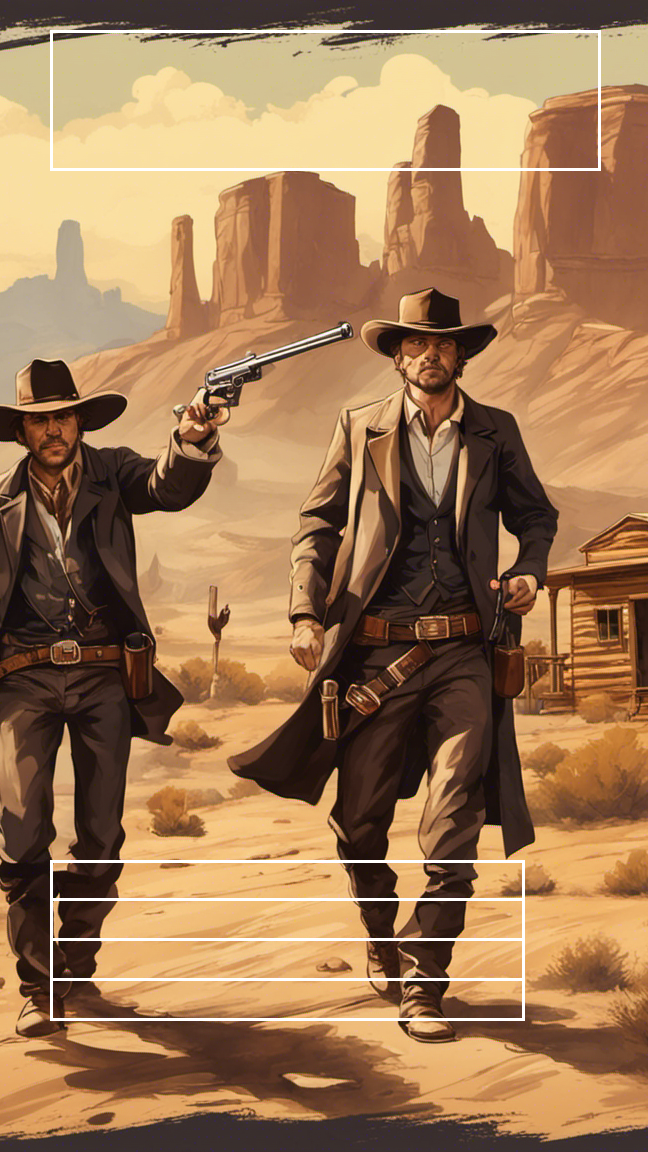
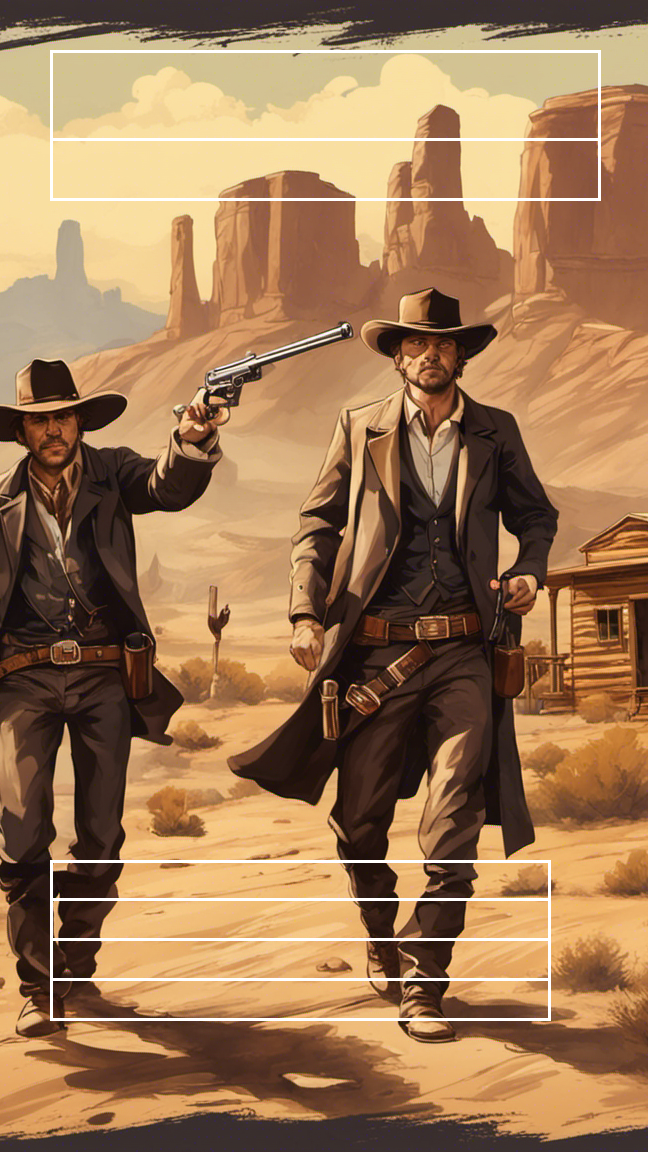
AGGIUNTA POSIZIONE PARAMETRICA

diff --git a/lambda_functions/create_ig_stories/image_editing.py b/lambda_functions/create_ig_stories/image_editing.py
@@ -2,11 +2,15 @@ from PIL import Image, ImageFont, ImageDraw
 import requests
 import io
 
-LOWER_BOXEX_X0 = 50
-LOWER_BOXEX_Y0 = 860
-LOWER_BOXEX_X1 = 524
+UPPER_BOXES_START_POINT = (50, 50)
+UPPER_BOXES_WIDTH = 550
+UPPER_SECTIONS = ["title", "body"]
 
+LOWER_BOXES_START_POINT = (50, 860)
+LOWER_BOXES_WIDTH = 500
+LOWER_SECTIONS = ["date", "time", "location", "cost"]
 
+BOX_MARGIN = 5
 
 def draw_textboxes(my_image, edit_dict):
     """
@@ -21,22 +25,23 @@ def draw_textboxes(my_image, edit_dict):
     # x_1 = 524
     # y_1 = 524
     # lower_textbox = ((50, 860), (524,))
-    y_0 = LOWER_BOXEX_Y0
+    upper_y_0 = UPPER_BOXES_START_POINT[1]
+    lower_y_0 = LOWER_BOXES_START_POINT[1]
+
     for scope in edit_dict.keys():
         if edit_dict[scope]["text"] != "":
             if scope in ["title", "body"]:
-                image_editable.rectangle(edit_dict[scope]["textbox"], width=3)
+                upper_textbox = ((UPPER_BOXES_START_POINT[0], UPPER_BOXES_START_POINT[1]), 
+                                 (UPPER_BOXES_START_POINT[0]+UPPER_BOXES_WIDTH, upper_y_0+edit_dict[scope]["size"]))
+                image_editable.rectangle(upper_textbox, width=3)
+                upper_y_0 = upper_y_0+edit_dict[scope]["size"]
             else: 
 
-                lower_textbox = ((LOWER_BOXEX_X0, LOWER_BOXEX_Y0), 
-                                 (LOWER_BOXEX_X1, y_0+edit_dict[scope]["size"]))
+                lower_textbox = ((LOWER_BOXES_START_POINT[0], LOWER_BOXES_START_POINT[1]), 
+                                 (LOWER_BOXES_START_POINT[0]+LOWER_BOXES_WIDTH, lower_y_0+edit_dict[scope]["size"]))
                 image_editable.rectangle(lower_textbox, width=3)
-                y_0 = y_0+edit_dict[scope]["size"]
+                lower_y_0 = lower_y_0+edit_dict[scope]["size"]
     return my_image
-
-
-
-
 
 def get_google_font(font: str, size=24):
     """
@@ -45,7 +50,6 @@ def get_google_font(font: str, size=24):
     size: dimensione del font
     """
     url = f"https://github.com/google/fonts/blob/main/ofl/{font}?raw=true"
-    print(url)
     r = requests.get(url, allow_redirects=True)
     font = ImageFont.truetype(io.BytesIO(r.content), size=size)
 
@@ -78,6 +82,43 @@ def crop_image(my_image, aspect_ratio: tuple):
     # thumb.save(img_path_cropped)
     return image
 
+def get_text_size(max_width, text, font, max_size):
+    # Get appropriate font size to make the text fit the box in a single line
+    max_size = max_size # Start from default font size
+    text_length = get_google_font(font, max_size).getlength(text) # Get text length given font and size
+    # Finché il testo non ci sta nel box predefinito, riduco la size di 2 punti e riprovo
+    while text_length > max_width:
+        max_size -= 2
+        text_length = get_google_font(font, max_size).getlength(text)
+    actual_size = max_size
+    
+    return actual_size
+
+def get_text_position(textbox, anchor):
+    # Get textbox dimensions from coordinates
+    box_h = textbox[1][1] - textbox[0][1]
+
+    # Determinare la posizione del testo
+    # - se testo centrato ("anchor" == "mm"): posizione = centro del box
+    # - se testo allineato a dx ("anchor" == "lb"): posizione = angolo lower left del box
+    # - se testo allineato a dx ("anchor" == "lm"): posizione = middle left del box
+    # - per ora ci sono solo queste casistiche
+        
+    if anchor == "mm":
+        position_x = (textbox[1][0]+textbox[0][0])/2
+        position_y = (textbox[1][1]+textbox[0][1])/2
+        position = (position_x, position_y)
+    elif anchor == "lb":
+        position_x = textbox[0][0]
+        position_y = textbox[0][1] + box_h
+        position = (position_x, position_y)
+    elif anchor == "lm":
+        position_x = textbox[0][0]
+        position_y = textbox[0][1] + box_h/2
+        position = (position_x, position_y)
+
+    return position
+
 def write_on_image(my_image, edit_dict):
     """
     https://pillow.readthedocs.io/en/stable/handbook/text-anchors.html
@@ -85,44 +126,46 @@ def write_on_image(my_image, edit_dict):
 
     image_editable = ImageDraw.Draw(my_image)
 
+
+    upper_y_0 = UPPER_BOXES_START_POINT[1]
+    lower_y_0 = LOWER_BOXES_START_POINT[1]
+
     for scope in edit_dict.keys():
-        # Get textbox dimensions from coordinates
-        box_w = edit_dict[scope]["textbox"][1][0] - edit_dict[scope]["textbox"][0][0]
-        box_h = edit_dict[scope]["textbox"][1][1] - edit_dict[scope]["textbox"][0][1]
+        if edit_dict[scope]["text"] != "":
+            if scope in UPPER_SECTIONS:
+                actual_size = get_text_size(UPPER_BOXES_WIDTH, edit_dict[scope]["text"], edit_dict[scope]["font"], edit_dict[scope]["size"])
+                upper_textbox = ((UPPER_BOXES_START_POINT[0], upper_y_0), 
+                                 (UPPER_BOXES_START_POINT[0]+UPPER_BOXES_WIDTH, upper_y_0+actual_size)) 
+                position = get_text_position(upper_textbox, edit_dict[scope]["anchor"])      
 
-        # Get appropriate font size to make the text fit the box in a single line
-        max_size = edit_dict[scope]["size"] # Start from default font size
-        text_length = get_google_font(edit_dict[scope]["font"], max_size).getlength(edit_dict[scope]["text"]) # Get text length given font and size
-        # Finché il testo non ci sta nel box predefinito, riduco la size di 2 punti e riprovo
-        while text_length > box_w:
-            max_size -= 2
-            text_length = get_google_font(edit_dict[scope]["font"], max_size).getlength(edit_dict[scope]["text"])
+                # print(actual_size)        
+                image_editable.text(position, 
+                                    edit_dict[scope]["text"],
+                                    edit_dict[scope]["color"],
+                                    anchor=edit_dict[scope]["anchor"],
+                                    font=get_google_font(edit_dict[scope]["font"]
+                                                            , actual_size))
+                upper_y_0 = upper_y_0+actual_size+BOX_MARGIN
+                # print(scope, upper_y_0)
+            elif scope in LOWER_SECTIONS:
+                # print(scope)
+                actual_size = get_text_size(LOWER_BOXES_WIDTH, edit_dict[scope]["text"], edit_dict[scope]["font"], edit_dict[scope]["size"])
+                # print("actual_size", actual_size)  
+                lower_textbox = ((LOWER_BOXES_START_POINT[0], lower_y_0), 
+                                 (LOWER_BOXES_START_POINT[0]+LOWER_BOXES_WIDTH, lower_y_0+actual_size))
+                # print(lower_textbox)
+                position = get_text_position(lower_textbox, edit_dict[scope]["anchor"])   
 
-        # Determinare la posizione del testo
-        # - se testo centrato ("anchor" == "mm"): posizione = centro del box
-        # - se testo allineato a dx ("anchor" == "lb"): posizione = angolo lower left del box
-        # - se testo allineato a dx ("anchor" == "lm"): posizione = middle left del box
-        # - per ora ci sono solo queste casistiche
-            
-        if edit_dict[scope]["anchor"] == "mm":
-            position_x = (edit_dict[scope]["textbox"][1][0]+edit_dict[scope]["textbox"][0][0])/2
-            position_y = (edit_dict[scope]["textbox"][1][1]+edit_dict[scope]["textbox"][0][1])/2
-            position = (position_x, position_y)
-        elif edit_dict[scope]["anchor"] == "lb":
-            position_x = edit_dict[scope]["textbox"][0][0]
-            position_y = edit_dict[scope]["textbox"][0][1] + box_h
-            position = (position_x, position_y)
-        elif edit_dict[scope]["anchor"] == "lm":
-            position_x = edit_dict[scope]["textbox"][0][0]
-            position_y = edit_dict[scope]["textbox"][0][1] + box_h/2
-            position = (position_x, position_y)
-            
-        image_editable.text(position, 
-                            edit_dict[scope]["text"],
-                            edit_dict[scope]["color"],
-                            anchor=edit_dict[scope]["anchor"],
-                            font=get_google_font(edit_dict[scope]["font"]
-                                                    , max_size))
+                      
+                # print("position", position)   
+                # image_editable.rectangle(lower_textbox, width=3)
+                image_editable.text(position, 
+                                    edit_dict[scope]["text"],
+                                    edit_dict[scope]["color"],
+                                    anchor=edit_dict[scope]["anchor"],
+                                    font=get_google_font(edit_dict[scope]["font"]
+                                                            , actual_size))
+                lower_y_0 = lower_y_0+actual_size+BOX_MARGIN
     
     return my_image
 
@@ -137,9 +180,9 @@ def image_edit(img_path: str, edit_dict: dict, crop=True):
         # Carico immagine
         my_image = Image.open(img_path) 
 
-    # my_image = write_on_image(my_image, edit_dict)
-    my_image = draw_textboxes(my_image, edit_dict)
+    my_image = write_on_image(my_image, edit_dict)
+    # my_image = draw_textboxes(my_image, edit_dict)
 
     # Salvataggio risutlato
-    my_image.save("BOX_"+img_path)
+    my_image.save("EDIT_"+img_path)
 

diff --git a/lambda_functions/create_ig_stories/main.py b/lambda_functions/create_ig_stories/main.py
@@ -22,57 +22,41 @@ def lambda_handler(event: dict, context):
     img_path = "test_img.png"
 
     # da fare:
-    # - mettere posizione parametrica (e.g. titolo centrato)
     # https://stackoverflow.com/questions/1970807/center-middle-align-text-with-pil
     # https://pillow.readthedocs.io/en/stable/handbook/text-anchors.html
     # - scegliere colore testo parametrico, adatto all'immagine
     # - aggiungere icone per luogo, data, ora, costo etc. e metterle a sx del testo
-    # - mettere che se il "text" è vuoto skippare quel box e passare al successivo
-    #   per i box piccoli sotto (data, ora, luogo, costo,...) partire sempre dalla data che ci deve essere sempre e per cui ho le coordinate fissate del box,
-    #   poi per i seguenti se i text sono != da "" aggiungo il box e ne calcolo in modo parametrico le coordinate
 
     edit_dict = {
         "title": {"text": "Torneo di Bang",
                   "font": "montserratalternates/MontserratAlternates-Bold.ttf",
-                  "size": 90, 
+                  "size": 70, 
                   "color": (255, 255, 255),
-                #   "position":(324,100),
-                  "textbox":((50, 30), (600, 170)),
                   "anchor":"mm"},
-        "body": {"text": "",
+        "body": {"text": "Divertiti con noi al più famoso gioco western!",
                   "font": "montserratalternates/MontserratAlternates-Bold.ttf",
-                  "size": 80, 
+                  "size": 40, 
                   "color": (255, 255, 255),
-                #   "position":(0,0),
-                  "textbox":((50, 170), (600, 270)),
                   "anchor":"mm"},        
         "date": {"text": "Mercoledì 31 febbraio",
                   "font": "montserratalternates/MontserratAlternates-Bold.ttf",
                   "size": 40, 
                   "color": (255, 255, 255),
-                #   "position":(0,950),
-                  "textbox":((50, 860), (524, 900)),
                   "anchor":"lm"},
         "time": {"text": "21:00",
                   "font": "montserratalternates/MontserratAlternates-Bold.ttf",
                   "size": 40, 
                   "color": (255, 255, 255),
-                #   "position":(0,950),
-                  "textbox":((50, 900), (524, 940)),
                   "anchor":"lm"},
         "location": {"text": "Centro NOI di Povegliano",
                   "font": "montserratalternates/MontserratAlternates-Bold.ttf",
                   "size": 40, 
                   "color": (255, 255, 255),
-                #   "position":(0,900),
-                  "textbox":((50, 940), (524, 980)),
                   "anchor":"lm"},
         "cost": {"text": "Iscrizione libera",
                   "font": "montserratalternates/MontserratAlternates-Bold.ttf",
                   "size": 40, 
                   "color": (255, 255, 255),
-                #   "position":(0,1000),
-                  "textbox":((50, 980), (524, 1020)),
                   "anchor":"lm"}
     }
 
